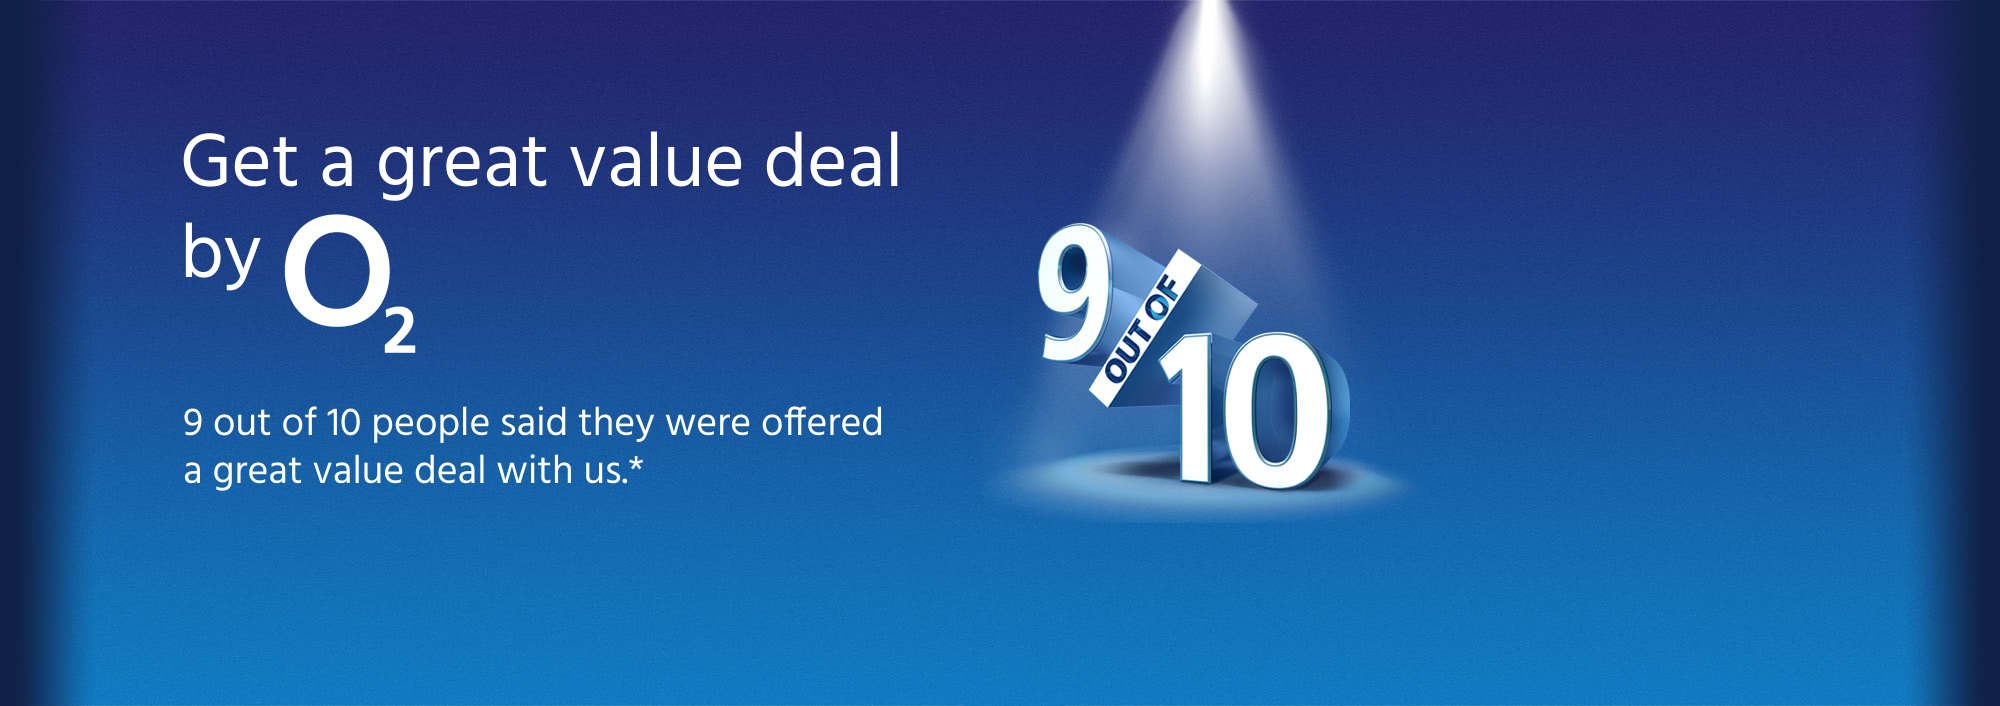
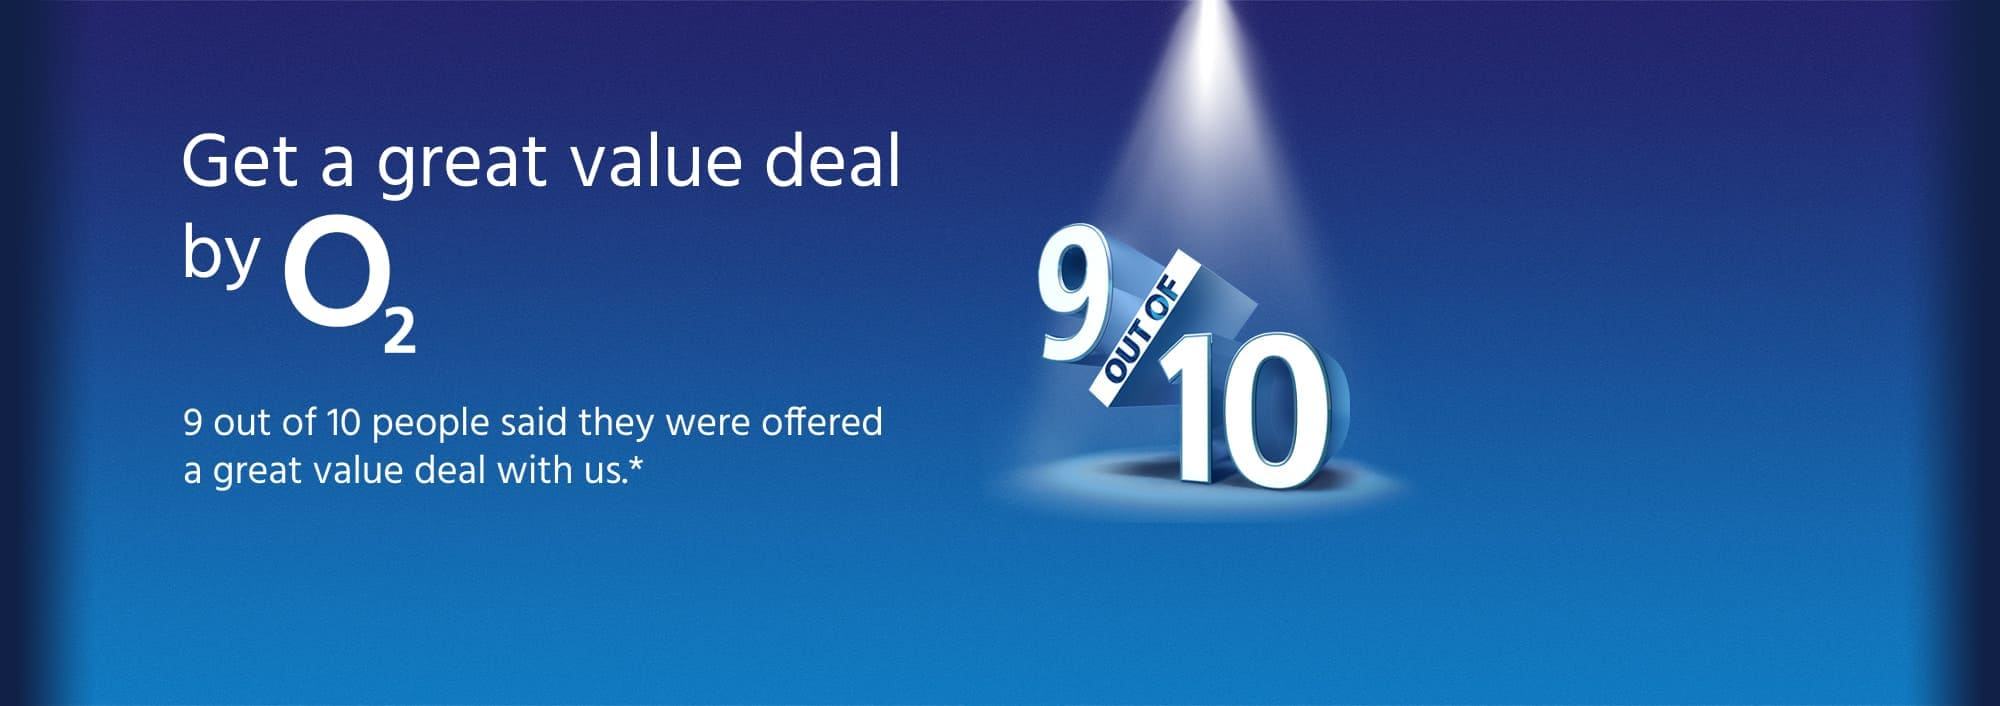
added new page o2 and alson make rake task

diff --git a/app/assets/stylesheets/components/_exclusive-o2-deals.scss b/app/assets/stylesheets/components/_exclusive-o2-deals.scss
@@ -1,0 +1,139 @@
+#o2dealsform{
+  $base-color: #23236A;
+
+  .font-cabin{
+    font-family: 'Cabin Sketch', cursive !important;
+  }
+  .head-logo{
+    width: 180px;
+  }
+  .background-header{
+    background: asset-url('compare/o2-banner.jpg');
+    background-size: cover;
+    background-repeat: no-repeat;
+    background-position: center;
+    height: 440px;
+  }
+  .text-jam{
+    color: $base-color;
+  }
+  .input-radio{
+    background-color: white;
+    width: 100%;
+    border: 1px solid #dee2e6;
+    display: flex;
+    justify-content: flex-start;
+    align-items: center;
+    border-radius: 50px !important;
+    text-decoration: none;
+    color: black;
+  }
+  .input-radio:hover{
+    color: white;
+    background-color: $base-color;
+    border: 1px solid $base-color;
+    text-decoration: none;
+  }
+  .input-radio:checked ~ .input-radio{
+    color: white;
+    background-color: $base-color;
+  }
+  .input-tag-radio{
+    opacity: 0;
+    width: 100%;
+    height: 55px;
+  }
+  input:hover ~ .input-radio{
+    border: 1px solid $base-color;
+    color: white;
+    background-color: $base-color;
+  }
+  input:hover ~ .input-radio:after{
+    border: 1px solid $base-color;
+  }
+  .input-div{
+    width: 100%;
+  }
+  .cursor-p{
+    cursor: pointer;
+  }
+  .bg-light-jam{
+    background-color: #ecf7ff;
+  }
+  .btn-deal{
+    background: linear-gradient(180deg,#23236A 0,#107AC0 100%);
+    font-size: 20px !important;
+    border-radius: 50px !important;
+    border: none;
+  }
+  .btn-deal:hover{
+    background: linear-gradient(180deg,#107AC0 0,#23236A 100%);
+  }
+  .text-green{
+    color: #107AC0;
+  }
+  @media only screen and (max-width: 1025px) {
+    .background-header{
+      background-size: cover;
+      background-repeat: no-repeat;
+      background-position: center;
+      height: 340px;
+    }
+    .input-div{
+      width: 46%;
+    }   
+  }
+  @media only screen and (max-width: 768px) {
+    .input-div{
+      width: 46%;
+    }
+    .background-header{
+      background-size: cover;
+      background-position: center top;
+      height: 215px;
+    }
+  }
+  @media only screen and (max-width: 520px) {
+    .input-div{
+      width: 45%;
+    }
+    .background-header{
+      background: asset-url('compare/O2-Extra.png');
+      background-size: cover;
+      background-repeat: no-repeat;
+      background-position: center;
+      max-width: 100%;
+      height: 279px;
+    }
+    .fs-md-13{
+      font-size: 13px;
+    }
+    .input-radio{
+      justify-content: center;
+    }
+  }
+  @media only screen and (max-width: 375px) {
+    .background-header{
+      height: 254px;
+    }
+  }
+  @media only screen and (max-width: 320px) {
+    .background-header{
+      height: 214px;
+    }
+    .bg-height{
+      height: 100vh !important;
+    }
+  }
+}
+@media only screen and (max-width: 375px) {
+  .bg-height{
+    height: 87vh !important;
+  }
+}
+
+@media only screen and (max-width: 320px) {
+  .bg-height{
+    height: 100vh !important;
+  }
+}

diff --git a/app/javascript/packs/exclusive_o2_deals.js b/app/javascript/packs/exclusive_o2_deals.js
@@ -4,7 +4,7 @@ class ExclusiveO2Deals extends Common {
   constructor() {
     super();
     var CI = this;
-    this.getFormDetails('#dealsform');
+    this.getFormDetails('#o2dealsform');
 
     $('.btn-deal').click(function() {
       CI.postData()

diff --git a/db/seeds.rb b/db/seeds.rb
@@ -7,7 +7,8 @@
 #   Character.create(name: 'Luke', movie: movies.first)
 
 require 'csv'
-CSV.foreach('ee_sheet.csv', headers: true ) do |row|
+CSV.foreach('o2_sheet.csv', headers: true ) do |row|
+  retailers = row['Retailers']
   img = row['Url']
   p_type = row['Type']
   title = row['Title']
@@ -18,8 +19,9 @@ CSV.foreach('ee_sheet.csv', headers: true ) do |row|
   call = row['Calls'].to_i
   text = row['Text'].to_i
   contr = row['Contract'].to_i
-  
-  
-  Product.create(img: img, product_type: p_type, title: title, color: color, monthly_cost: monthly, upfront: upfront, data: data, calls: call, text: text, contract: contr, ) 
+  roaming = row['Roaming']
+  f_gift = row['Gifts']
+   
+  Product.create(retailer: retailers, img: img, product_type: p_type, title: title, color: color, monthly_cost: monthly, upfront: upfront, data: data, calls: call, text: text, contract: contr, free_gift: f_gift, data_roaming: roaming,) 
 end
 puts "done"

diff --git a/config/environments/development.rb b/config/environments/development.rb
@@ -5,14 +5,13 @@ Rails.application.configure do
   # every request. This slows down response time but is perfect for development
   # since you don't have to restart the web server when you make code changes.
   config.cache_classes = false
-
+  config.hosts << "948ed26fd4f2.ngrok.io"
   # Do not eager load code on boot.
   config.eager_load = false
 
   # Show full error reports.
   config.consider_all_requests_local = true
   config.action_controller.allow_forgery_protection = false
-  config.hosts << "1946adce8ff2.ngrok.io"
   # Enable/disable caching. By default caching is disabled.
   # Run rails dev:cache to toggle caching.
   if Rails.root.join('tmp', 'caching-dev.txt').exist?

diff --git a/app/controllers/pages_controller.rb b/app/controllers/pages_controller.rb
@@ -19,9 +19,18 @@ class PagesController < ApplicationController
     end
 	end
 
+  def exclusive_o2_deals
+    exclusive_o2_deal
+    fetch_products('o2')
+  end
+
   def exclusive_ee_deals
     exclusive_ee_deal
-    @products = Product.where(product_type: params[:type] || 0)
+    fetch_products('ee')
+  end
+
+  def fetch_products(company)
+    @products = Product.where(product_type: params[:type] || 0 ).where(retailer: company)
   end
 
   private

diff --git a/db/schema.rb b/db/schema.rb
@@ -32,6 +32,9 @@ ActiveRecord::Schema.define(version: 2020_08_10_155919) do
     t.integer "contract"
     t.string "network_img"
     t.string "color"
+    t.string "retailer"
+    t.string "free_gift"
+    t.string "data_roaming"
     t.datetime "created_at", precision: 6, null: false
     t.datetime "updated_at", precision: 6, null: false
   end

diff --git a/db/migrate/20200810155919_create_products.rb b/db/migrate/20200810155919_create_products.rb
@@ -12,6 +12,9 @@ class CreateProducts < ActiveRecord::Migration[6.0]
       t.integer :contract
       t.string :network_img
       t.string :color
+      t.string :retailer
+      t.string :free_gift
+      t.string :data_roaming
       t.timestamps
     end
   end

diff --git a/config/routes.rb b/config/routes.rb
@@ -17,5 +17,6 @@ Rails.application.routes.draw do
 
   root 'pages#index'
   get '/exclusive_ee_deals' => 'pages#exclusive_ee_deals'
+  get '/exclusive_o2_deals' => 'pages#exclusive_o2_deals'
   get '/:page_name' => 'pages#show'
 end
